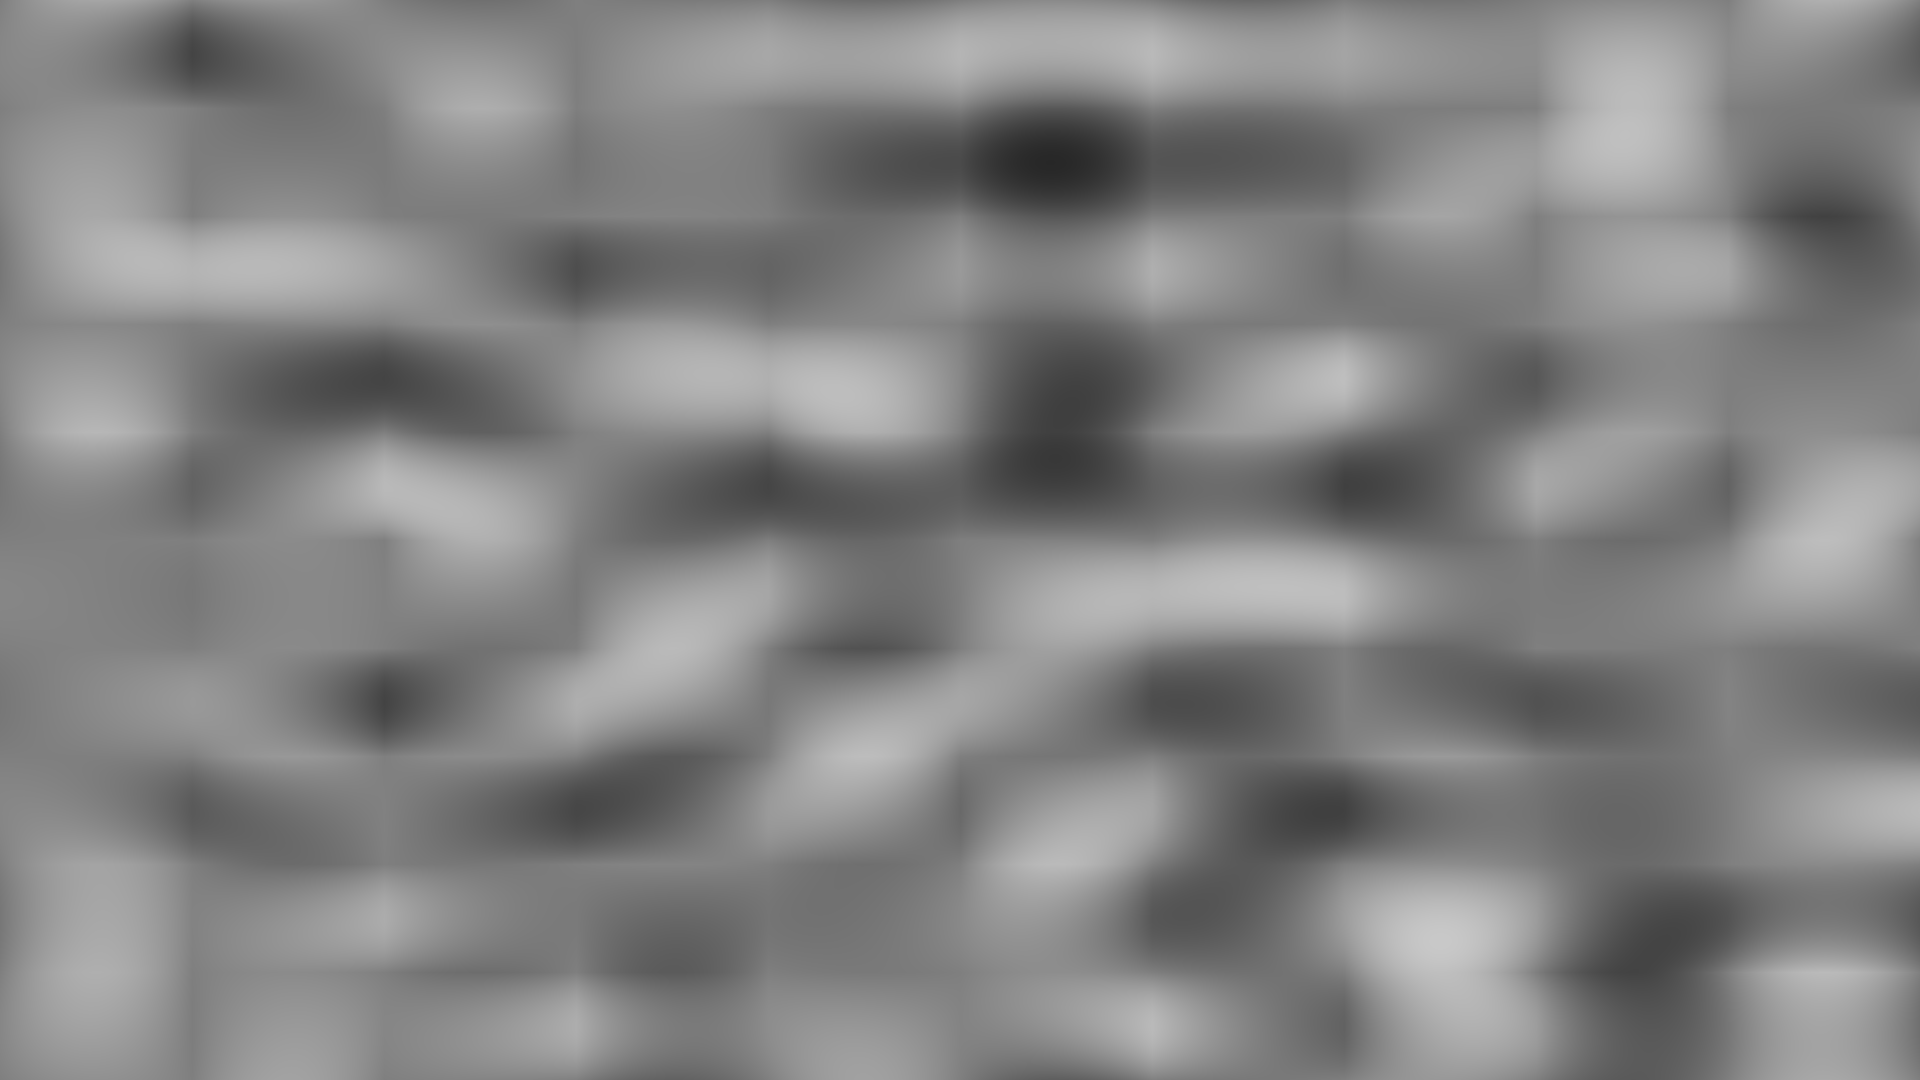
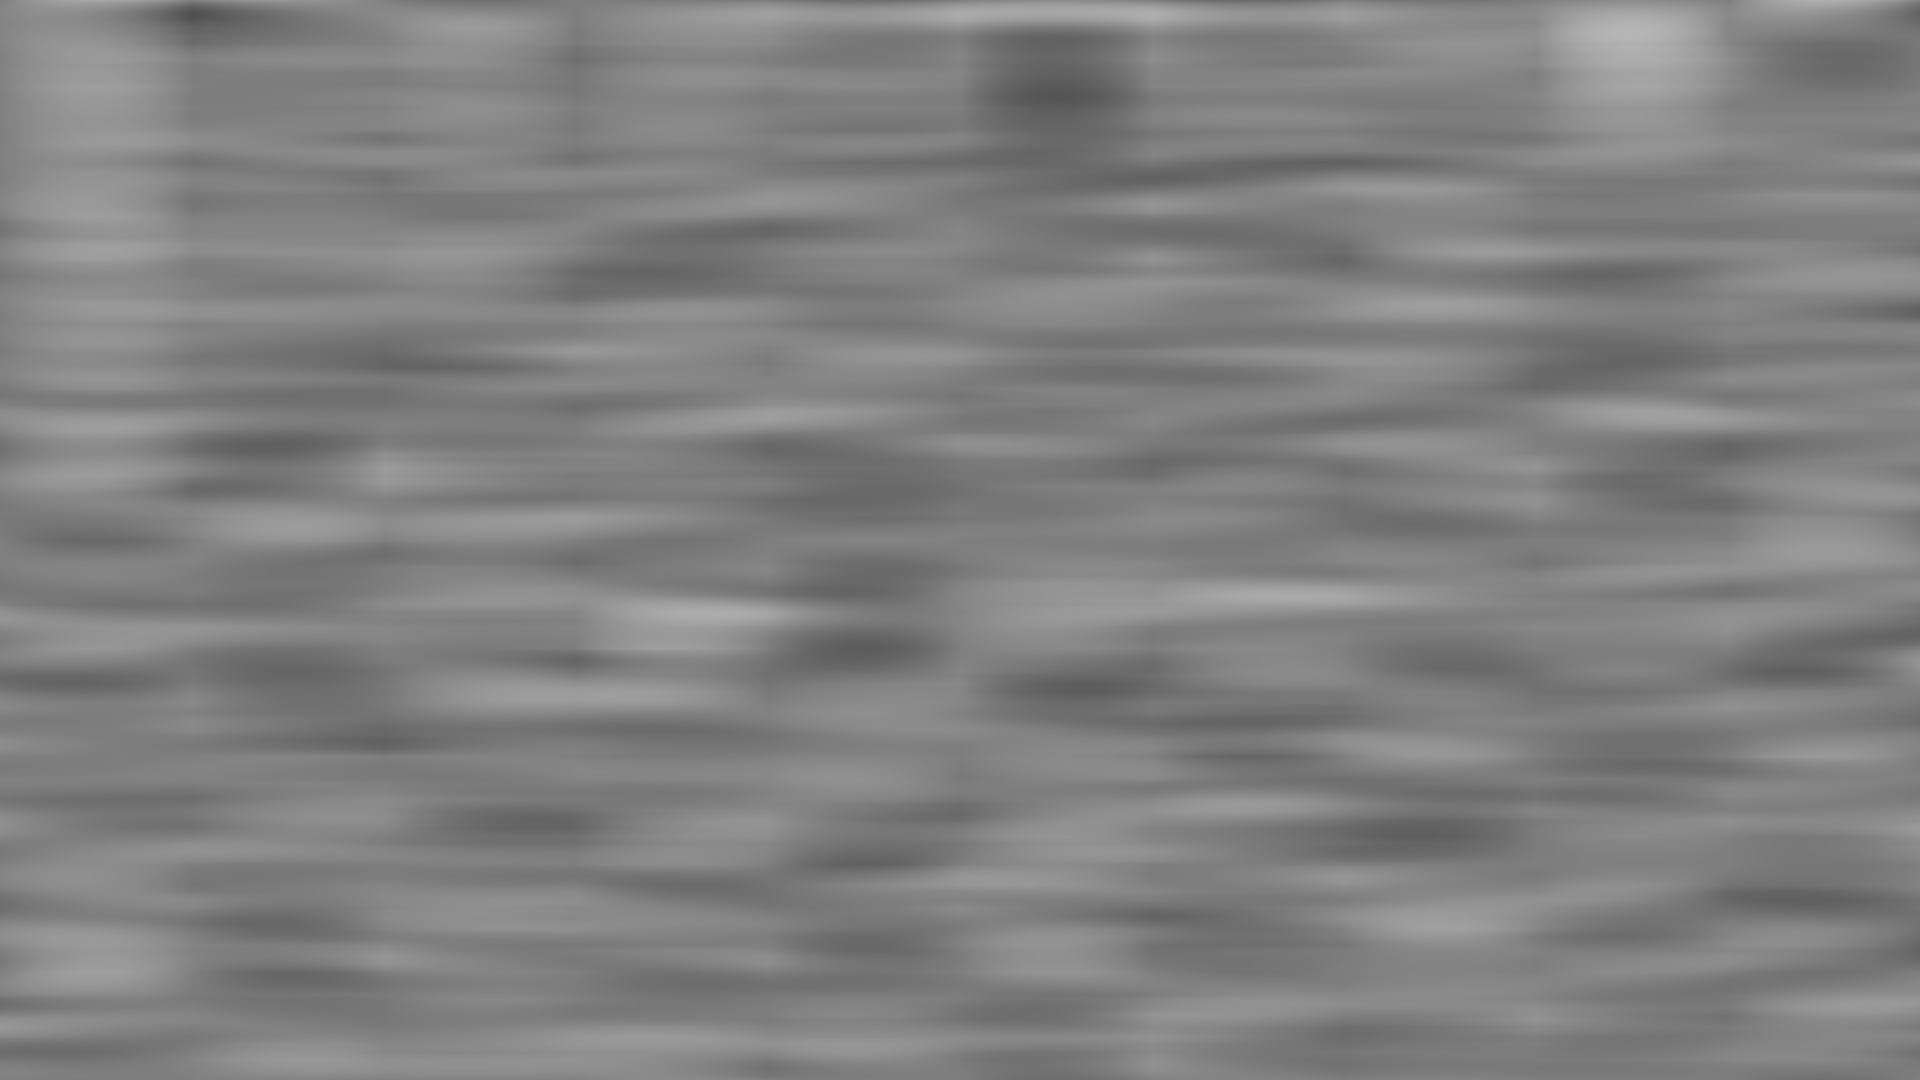
Add voronoi noise

diff --git a/voronoi.c b/voronoi.c
@@ -1,14 +1,16 @@
 #include<stdio.h>
 #include<stdlib.h>
 #include<math.h>
+#include<time.h>
 #define STB_IMAGE_WRITE_IMPLEMENTATION
 #include"stb_image_write.h"
 
 #define HEIGHT 512
 #define WIDTH 512
 #define NUM_POINTS 200
+#define GRID
 
-int points[NUM_POINTS][2];
+float points[NUM_POINTS][2];
 
 float min_dist(float x, float y){
     float mn = 1000000000000.0f;
@@ -24,17 +26,16 @@ float min_dist(float x, float y){
 int main(){
     srand(time(NULL));
     for(int i = 0; i < NUM_POINTS; i++){
-        points[i][0] = ((float)rand()/RAND_MAX)*WIDTH;
-        points[i][1] = ((float)rand()/RAND_MAX)*HEIGHT;
+        points[i][0] = ((float)rand()/RAND_MAX);
+        points[i][1] = ((float)rand()/RAND_MAX);
     }
     char* data = malloc(sizeof(char)*4*WIDTH*HEIGHT);
     for(int y = 0; y < HEIGHT; y++){
-        printf("%d\n", y);
         for(int x = 0; x < WIDTH; x++){
             float res = min_dist((float)x/WIDTH, (float)y/HEIGHT);
-            data[(WIDTH*y+x)*4+0] = res*255;
-            data[(WIDTH*y+x)*4+1] = res*255;
-            data[(WIDTH*y+x)*4+2] = res*255;
+            data[(WIDTH*y+x)*4+0] = res*(NUM_POINTS/20)*255;
+            data[(WIDTH*y+x)*4+1] = res*(NUM_POINTS/20)*255;
+            data[(WIDTH*y+x)*4+2] = res*(NUM_POINTS/20)*255;
             data[(WIDTH*y+x)*4+3] = 255;
         }
     stbi_write_png("voronoi.png", WIDTH, HEIGHT, 4, data, WIDTH*4);

diff --git a/reference_perlin.c b/reference_perlin.c
@@ -88,7 +88,11 @@ int main(){
     char* data = malloc(sizeof(char)*4*WIDTH*HEIGHT);
     for(int y = 0; y < HEIGHT; y++){
         for(int x = 0; x < WIDTH; x++){
-            char res = ((perlin((float)x/WIDTH*SCALE, (float)y/HEIGHT*SCALE)+1)/2.0)*255;
+            char res = (((perlin((float)x/WIDTH*SCALE, (float)y/HEIGHT*10)+1)/2.0)*0.2 +
+             ((perlin((float)x/WIDTH*SCALE, (float)y/HEIGHT*20)+1)/2.0)*0.2 +
+              ((perlin((float)x/WIDTH*SCALE, (float)y/HEIGHT*30)+1)/2.0)*0.2 +
+               ((perlin((float)x/WIDTH*SCALE, (float)y/HEIGHT*40)+1)/2.0)*0.2 +
+                ((perlin((float)x/WIDTH*SCALE, (float)y/HEIGHT*50)+1)/2.0)*0.2)*255;
             data[(WIDTH*y+x)*4+0] = res;
             data[(WIDTH*y+x)*4+1] = res;
             data[(WIDTH*y+x)*4+2] = res;
